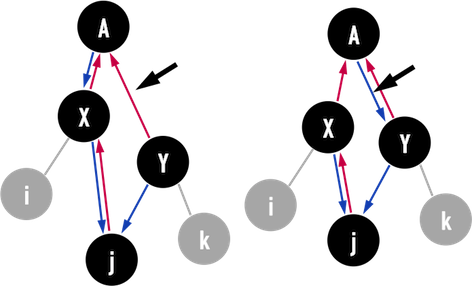
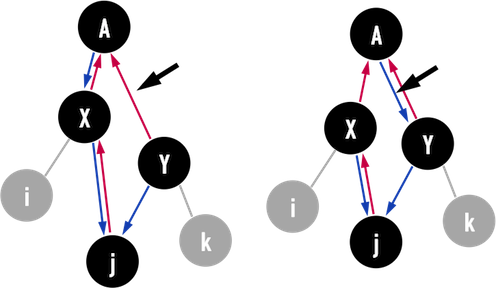
RBT_rotation revised

diff --git a/content/Algorithms and Data Structures/Tree series/Article/RBT_Rotation.md b/content/Algorithms and Data Structures/Tree series/Article/RBT_Rotation.md
@@ -18,14 +18,14 @@ Summary: 介紹Red Black Tree(紅黑樹)的Rotation(旋轉)操作。
 
 
 ##目錄
-* [於RBT中進行Insert與Delete後不符合RBT](#fail)
+* [於RBT中進行Insert與Delete後竟然不符合RBT](#fail)
 * [Rotation(旋轉)](#rotation)
 * [參考資料](#ref)
 
 
 <a name="fail"></a>
 
-##**於RBT中進行Insert與Delete後不符合RBT**
+##**於RBT中進行Insert與Delete後竟然不符合RBT**
 
 現考慮如圖一(a)之RBT，欲進行Insert(新增資料)與Delete(刪除資料)：
 
@@ -35,7 +35,7 @@ Summary: 介紹Red Black Tree(紅黑樹)的Rotation(旋轉)操作。
 **圖一(a)：一棵符合規則的RBT。**  
 </center>
 
-為滿足RBT之特徵第五點：從`root`走向任何一個leaf node(`NIL`)的任何一條path上之黑色node數皆相同，一般在RBT中Insert(新增資料)時，會先將node塗成紅色。  
+為滿足RBT之特徵第五點：從`root`走向任何一個leaf node(`NIL`)的任何一條path上之黑色node數皆相同，一般在RBT中Insert(新增資料)時，會先將欲新增的node塗成紅色。  
 若幸運地，新增的node接在黑色node上，則RBT仍然是一棵RBT，如圖一(b)，新增node(15)。
 
 
@@ -106,7 +106,7 @@ Summary: 介紹Red Black Tree(紅黑樹)的Rotation(旋轉)操作。
 **圖二(a)：。**  
 </center>
 
-從圖二(a)中可以看出，要對以node(X)為`root`之subtree進行Left Rotation，必須調整的node之pointer共有node(X)、node(Y)、node(A)與node(J)，其中node(J)有可能為`NIL`，不過為求完整，在此將以node(J)不為`NIL`作說明。  
+從圖二(a)中可以看出，要對以node(X)為`root`之subtree進行Left Rotation，必須調整的pointer分別長在node(X)、node(Y)、node(A)與node(J)身上，其中node(J)有可能為`NIL`，不過為求完整，在此將以node(J)不為`NIL`作說明。  
 另外，node(i)與node(k)是否為`NIL`皆不影響Left Rotation。
 
 <center>

diff --git a/content/Algorithms and Data Structures/Tree series/Article/BST_intro.md b/content/Algorithms and Data Structures/Tree series/Article/BST_intro.md
@@ -152,7 +152,7 @@ private:
 **圖六：。**  
 </center>
 
-（界王神的聲音：為什麼`root`從龜仙人變成比克？不會違反BST規則嗎？詳見[Red Black Tree系列之Rotation(旋轉)](#)。）
+（界王神的聲音：為什麼`root`從龜仙人變成比克？不會違反BST規則嗎？詳見[Red Black Tree系列之Rotation(旋轉)](http://alrightchiu.github.io/SecondRound/red-black-tree-rotationxuan-zhuan.html)。）
 
 <a name="sort"></a>
 
